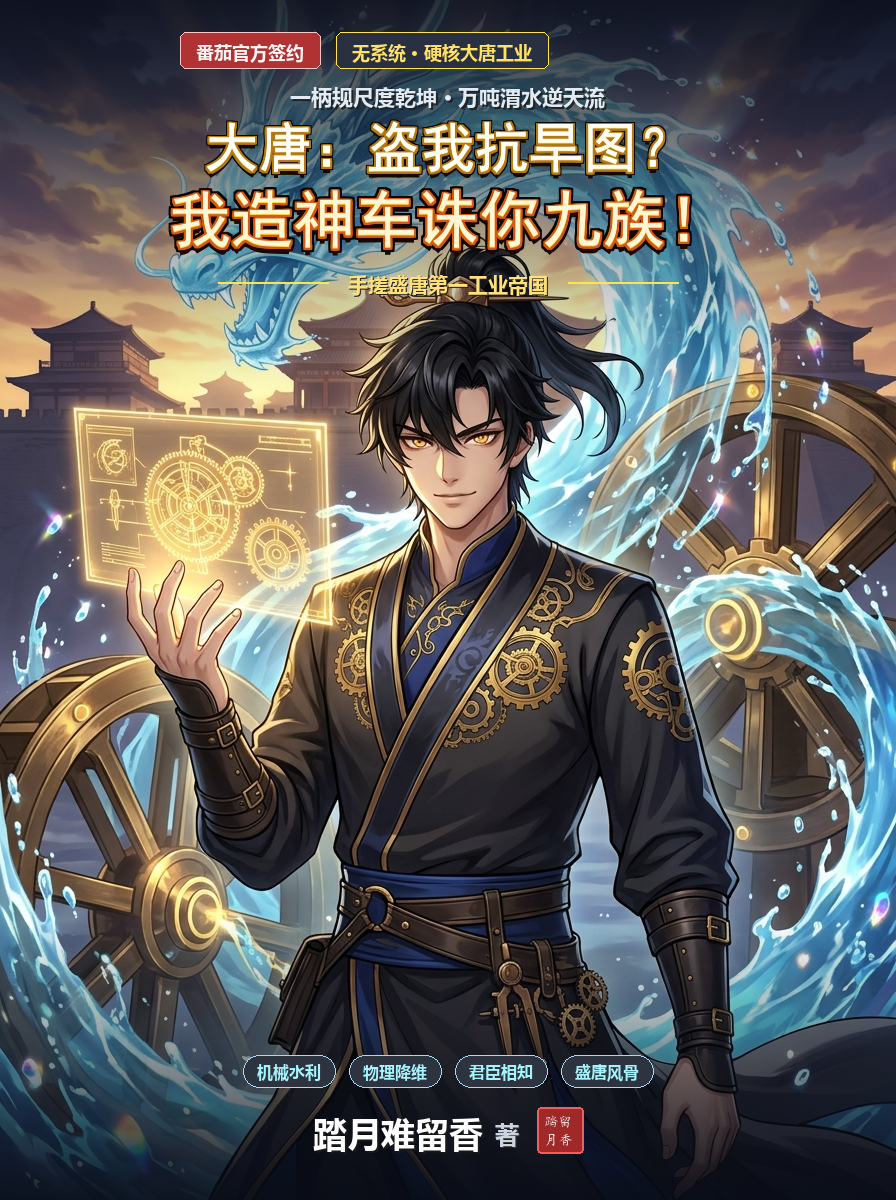
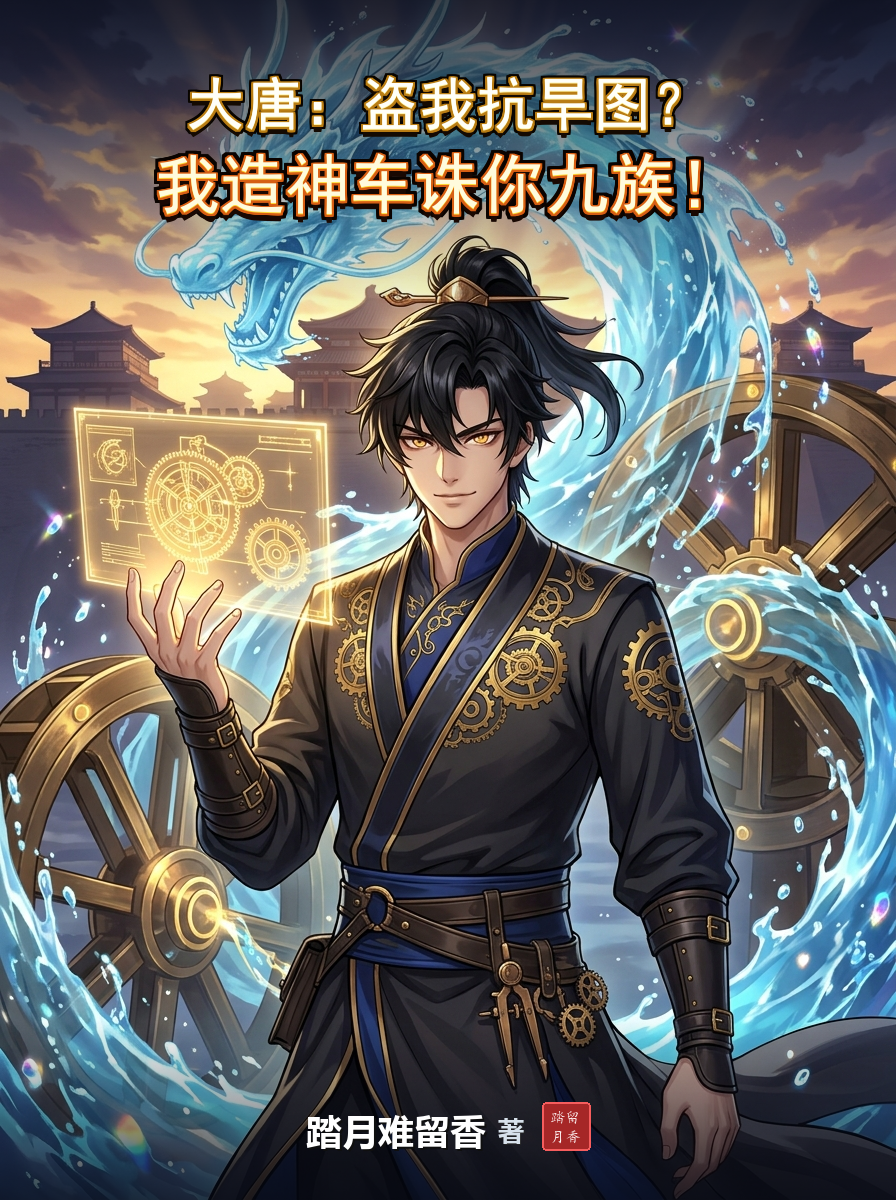
style: 封面极简重构仅保留小说名与作者署名

Changed region(s): [[0.0, 0.0, 1.0, 0.3083], [0.0, 0.7708, 1.0, 1.0], [0.9062, 0.8942, 1.0, 0.9558]]

diff --git a/scripts/render_cover_typography.py b/scripts/render_cover_typography.py
@@ -23,15 +23,15 @@ def main():
     img = Image.open(input_cover).convert("RGBA")
     w, h = img.size
     
-    # 1. 顶部与底部半透明渐变暗场，确保文字绝对清晰
-    top_overlay_h = 390
-    top_mask = create_gradient_mask(w, top_overlay_h, 220, 0)
-    top_dark = Image.new("RGBA", (w, top_overlay_h), (8, 12, 22, 255))
+    # 顶部与底部轻量柔和遮罩，仅为确保文字清晰，绝不遮挡中间画面
+    top_overlay_h = 320
+    top_mask = create_gradient_mask(w, top_overlay_h, 195, 0)
+    top_dark = Image.new("RGBA", (w, top_overlay_h), (5, 8, 18, 255))
     img.paste(top_dark, (0, 0), top_mask)
     
-    bottom_overlay_h = 280
-    bottom_mask = create_gradient_mask(w, bottom_overlay_h, 0, 235)
-    bottom_dark = Image.new("RGBA", (w, bottom_overlay_h), (8, 12, 22, 255))
+    bottom_overlay_h = 180
+    bottom_mask = create_gradient_mask(w, bottom_overlay_h, 0, 195)
+    bottom_dark = Image.new("RGBA", (w, bottom_overlay_h), (5, 8, 18, 255))
     img.paste(bottom_dark, (0, h - bottom_overlay_h), bottom_mask)
     
     draw = ImageDraw.Draw(img)
@@ -43,64 +43,31 @@ def main():
     if not os.path.exists(font_kaiti):
         font_kaiti = r"C:\Windows\Fonts\simkai.ttf"
         
-    font_title_line1 = ImageFont.truetype(font_hei, 54)
-    font_title_line2 = ImageFont.truetype(font_hei, 62)
-    font_slogan = ImageFont.truetype(font_yahei, 21)
-    font_tagline = ImageFont.truetype(font_yahei, 20)
-    font_badge = ImageFont.truetype(font_yahei, 18)
-    font_author_name = ImageFont.truetype(font_yahei, 34)
-    font_author_sub = ImageFont.truetype(font_yahei, 24)
-    font_seal = ImageFont.truetype(font_kaiti, 14)
-    font_pill = ImageFont.truetype(font_yahei, 16)
+    font_title_line1 = ImageFont.truetype(font_hei, 58)
+    font_title_line2 = ImageFont.truetype(font_hei, 65)
+    font_author_name = ImageFont.truetype(font_yahei, 36)
+    font_author_sub = ImageFont.truetype(font_yahei, 26)
+    font_seal = ImageFont.truetype(font_kaiti, 15)
     
-    # 2. 绘制顶部徽章
-    # 徽章1：番茄官方签约 (红金)
-    b1_text = "番茄官方签约"
-    b1_bbox = font_badge.getbbox(b1_text)
-    b1_w = b1_bbox[2] - b1_bbox[0] + 32
-    b1_h = 36
-    b1_x = 180
-    b1_y = 32
-    draw.rounded_rectangle([b1_x, b1_y, b1_x + b1_w, b1_y + b1_h], radius=6, fill=(168, 28, 28, 230), outline=(255, 180, 180, 200), width=1)
-    draw.text((b1_x + 16, b1_y + 7), b1_text, font=font_badge, fill=(255, 245, 245))
-    
-    # 徽章2：无系统 · 硬核大唐工业
-    b2_text = "无系统 · 硬核大唐工业"
-    b2_bbox = font_badge.getbbox(b2_text)
-    b2_w = b2_bbox[2] - b2_bbox[0] + 32
-    b2_h = 36
-    b2_x = b1_x + b1_w + 16
-    b2_y = 32
-    draw.rounded_rectangle([b2_x, b2_y, b2_x + b2_w, b2_y + b2_h], radius=6, fill=(18, 26, 46, 230), outline=(255, 215, 0, 180), width=1)
-    draw.text((b2_x + 16, b2_y + 7), b2_text, font=font_badge, fill=(255, 225, 100))
-    
-    # 3. 副标宣法语
-    slogan_text = "一柄规尺度乾坤 · 万吨渭水逆天流"
-    s_bbox = font_slogan.getbbox(slogan_text)
-    s_w = s_bbox[2] - s_bbox[0]
-    s_x = int((w - s_w) / 2)
-    s_y = 82
-    draw.text((s_x + 2, s_y + 2), slogan_text, font=font_slogan, fill=(0, 0, 0, 220))
-    draw.text((s_x, s_y), slogan_text, font=font_slogan, fill=(225, 235, 245))
-    
-    # 4. 核心主书名（分两行排版，极其醒目霸气）
+    # ---------------- 核心元素一：小说名字 ----------------
     # 第一行：大唐：盗我抗旱图？
     t1_text = "大唐：盗我抗旱图？"
     t1_bbox = font_title_line1.getbbox(t1_text)
     t1_w = t1_bbox[2] - t1_bbox[0]
     t1_x = int((w - t1_w) / 2)
-    t1_y = 120
+    t1_y = 75
     
-    for dx in range(-3, 4):
-        for dy in range(-3, 4):
+    # 多层立体投影
+    for dx in range(-4, 5):
+        for dy in range(-4, 5):
             if abs(dx) + abs(dy) > 0:
-                draw.text((t1_x + dx, t1_y + dy), t1_text, font=font_title_line1, fill=(10, 5, 0, 255))
-    for dy in range(1, 7):
+                draw.text((t1_x + dx, t1_y + dy), t1_text, font=font_title_line1, fill=(8, 4, 0, 255))
+    for dy in range(1, 8):
         draw.text((t1_x, t1_y + dy), t1_text, font=font_title_line1, fill=(20, 10, 2, 255))
     for dx in range(-2, 3):
         for dy in range(-2, 3):
-            draw.text((t1_x + dx, t1_y + dy), t1_text, font=font_title_line1, fill=(180, 120, 20, 255))
-    draw.text((t1_x, t1_y), t1_text, font=font_title_line1, fill=(255, 242, 170, 255))
+            draw.text((t1_x + dx, t1_y + dy), t1_text, font=font_title_line1, fill=(185, 125, 20, 255))
+    draw.text((t1_x, t1_y), t1_text, font=font_title_line1, fill=(255, 242, 165, 255))
     draw.text((t1_x, t1_y - 1), t1_text, font=font_title_line1, fill=(255, 255, 245, 180))
     
     # 第二行：我造神车诛你九族！
@@ -108,54 +75,21 @@ def main():
     t2_bbox = font_title_line2.getbbox(t2_text)
     t2_w = t2_bbox[2] - t2_bbox[0]
     t2_x = int((w - t2_w) / 2)
-    t2_y = 188
+    t2_y = 152
     
-    for dx in range(-4, 5):
-        for dy in range(-4, 5):
+    for dx in range(-5, 6):
+        for dy in range(-5, 6):
             if abs(dx) + abs(dy) > 0:
-                draw.text((t2_x + dx, t2_y + dy), t2_text, font=font_title_line2, fill=(12, 4, 0, 255))
-    for dy in range(1, 8):
+                draw.text((t2_x + dx, t2_y + dy), t2_text, font=font_title_line2, fill=(10, 3, 0, 255))
+    for dy in range(1, 9):
         draw.text((t2_x, t2_y + dy), t2_text, font=font_title_line2, fill=(25, 8, 2, 255))
     for dx in range(-2, 3):
         for dy in range(-2, 3):
-            draw.text((t2_x + dx, t2_y + dy), t2_text, font=font_title_line2, fill=(210, 90, 20, 255))
-    draw.text((t2_x, t2_y), t2_text, font=font_title_line2, fill=(255, 215, 60, 255))
-    draw.text((t2_x, t2_y - 1), t2_text, font=font_title_line2, fill=(255, 245, 200, 200))
+            draw.text((t2_x + dx, t2_y + dy), t2_text, font=font_title_line2, fill=(215, 95, 20, 255))
+    draw.text((t2_x, t2_y), t2_text, font=font_title_line2, fill=(255, 218, 55, 255))
+    draw.text((t2_x, t2_y - 1), t2_text, font=font_title_line2, fill=(255, 250, 210, 200))
     
-    # 5. 书名下方装饰金线与标签
-    tag_sub = "手搓盛唐第一工业帝国"
-    ts_bbox = font_tagline.getbbox(tag_sub)
-    ts_w = ts_bbox[2] - ts_bbox[0]
-    ts_x = int((w - ts_w) / 2)
-    ts_y = 270
-    
-    line_w = 110
-    draw.line([(ts_x - line_w - 20, ts_y + 12), (ts_x - 20, ts_y + 12)], fill=(255, 215, 0, 180), width=2)
-    draw.line([(ts_x + ts_w + 20, ts_y + 12), (ts_x + ts_w + line_w + 20, ts_y + 12)], fill=(255, 215, 0, 180), width=2)
-    
-    draw.text((ts_x + 1, ts_y + 1), tag_sub, font=font_tagline, fill=(0, 0, 0, 220))
-    draw.text((ts_x, ts_y), tag_sub, font=font_tagline, fill=(255, 225, 120))
-    
-    # 6. 底部特征标签组
-    pills = ["机械水利", "物理降维", "君臣相知", "盛唐风骨"]
-    total_pills_w = 0
-    pill_widths = []
-    for p in pills:
-        pb = font_pill.getbbox(p)
-        pw = pb[2] - pb[0] + 28
-        pill_widths.append(pw)
-        total_pills_w += pw
-    total_pills_w += 14 * (len(pills) - 1)
-    
-    curr_px = int((w - total_pills_w) / 2)
-    p_y = h - 145
-    for i, p in enumerate(pills):
-        pw = pill_widths[i]
-        draw.rounded_rectangle([curr_px, p_y, curr_px + pw, p_y + 32], radius=16, fill=(12, 18, 32, 220), outline=(100, 200, 255, 160), width=1)
-        draw.text((curr_px + 14, p_y + 6), p, font=font_pill, fill=(165, 243, 252))
-        curr_px += pw + 14
-        
-    # 7. 底部作者名与朱砂印章
+    # ---------------- 核心元素二：作者名字 ----------------
     author_name = "踏月难留香"
     author_sub = "著"
     an_bbox = font_author_name.getbbox(author_name)
@@ -163,30 +97,34 @@ def main():
     as_bbox = font_author_sub.getbbox(author_sub)
     as_w = as_bbox[2] - as_bbox[0]
     
-    seal_size = 46
+    seal_size = 48
     gap1 = 12
     gap2 = 18
     total_author_w = an_w + gap1 + as_w + gap2 + seal_size
     start_ax = int((w - total_author_w) / 2)
-    author_y = h - 90
+    author_y = h - 95
     
-    draw.text((start_ax + 2, author_y + 2), author_name, font=font_author_name, fill=(0, 0, 0, 230))
+    # 作者名（立体双阴影）
+    draw.text((start_ax + 2, author_y + 2), author_name, font=font_author_name, fill=(0, 0, 0, 240))
     draw.text((start_ax, author_y), author_name, font=font_author_name, fill=(255, 255, 255))
     
+    # 著字
     sub_x = start_ax + an_w + gap1
-    draw.text((sub_x + 1, author_y + 8), author_sub, font=font_author_sub, fill=(0, 0, 0, 200))
-    draw.text((sub_x, author_y + 7), author_sub, font=font_author_sub, fill=(203, 213, 225))
+    draw.text((sub_x + 1, author_y + 8), author_sub, font=font_author_sub, fill=(0, 0, 0, 220))
+    draw.text((sub_x, author_y + 7), author_sub, font=font_author_sub, fill=(215, 225, 235))
     
+    # 朱砂印章
     seal_x = sub_x + as_w + gap2
     seal_y = author_y - 3
-    draw.rounded_rectangle([seal_x, seal_y, seal_x + seal_size, seal_y + seal_size], radius=4, fill=(153, 27, 27, 240), outline=(239, 68, 68, 220), width=2)
-    draw.text((seal_x + 7, seal_y + 5), "踏留", font=font_seal, fill=(254, 242, 242))
-    draw.text((seal_x + 7, seal_y + 23), "月香", font=font_seal, fill=(254, 242, 242))
+    draw.rounded_rectangle([seal_x, seal_y, seal_x + seal_size, seal_y + seal_size], radius=4, fill=(160, 25, 25, 240), outline=(245, 75, 75, 230), width=2)
+    draw.text((seal_x + 8, seal_y + 5), "踏留", font=font_seal, fill=(255, 245, 245))
+    draw.text((seal_x + 8, seal_y + 24), "月香", font=font_seal, fill=(255, 245, 245))
     
+    # 保存结果
     final_rgb = img.convert("RGB")
     final_rgb.save(output_cover, "JPEG", quality=95)
     img.save(output_png, "PNG")
-    print(f"Success! Updated cover to: {output_cover}")
+    print(f"Success! Clean cover generated: {output_cover}")
 
 if __name__ == "__main__":
     main()
